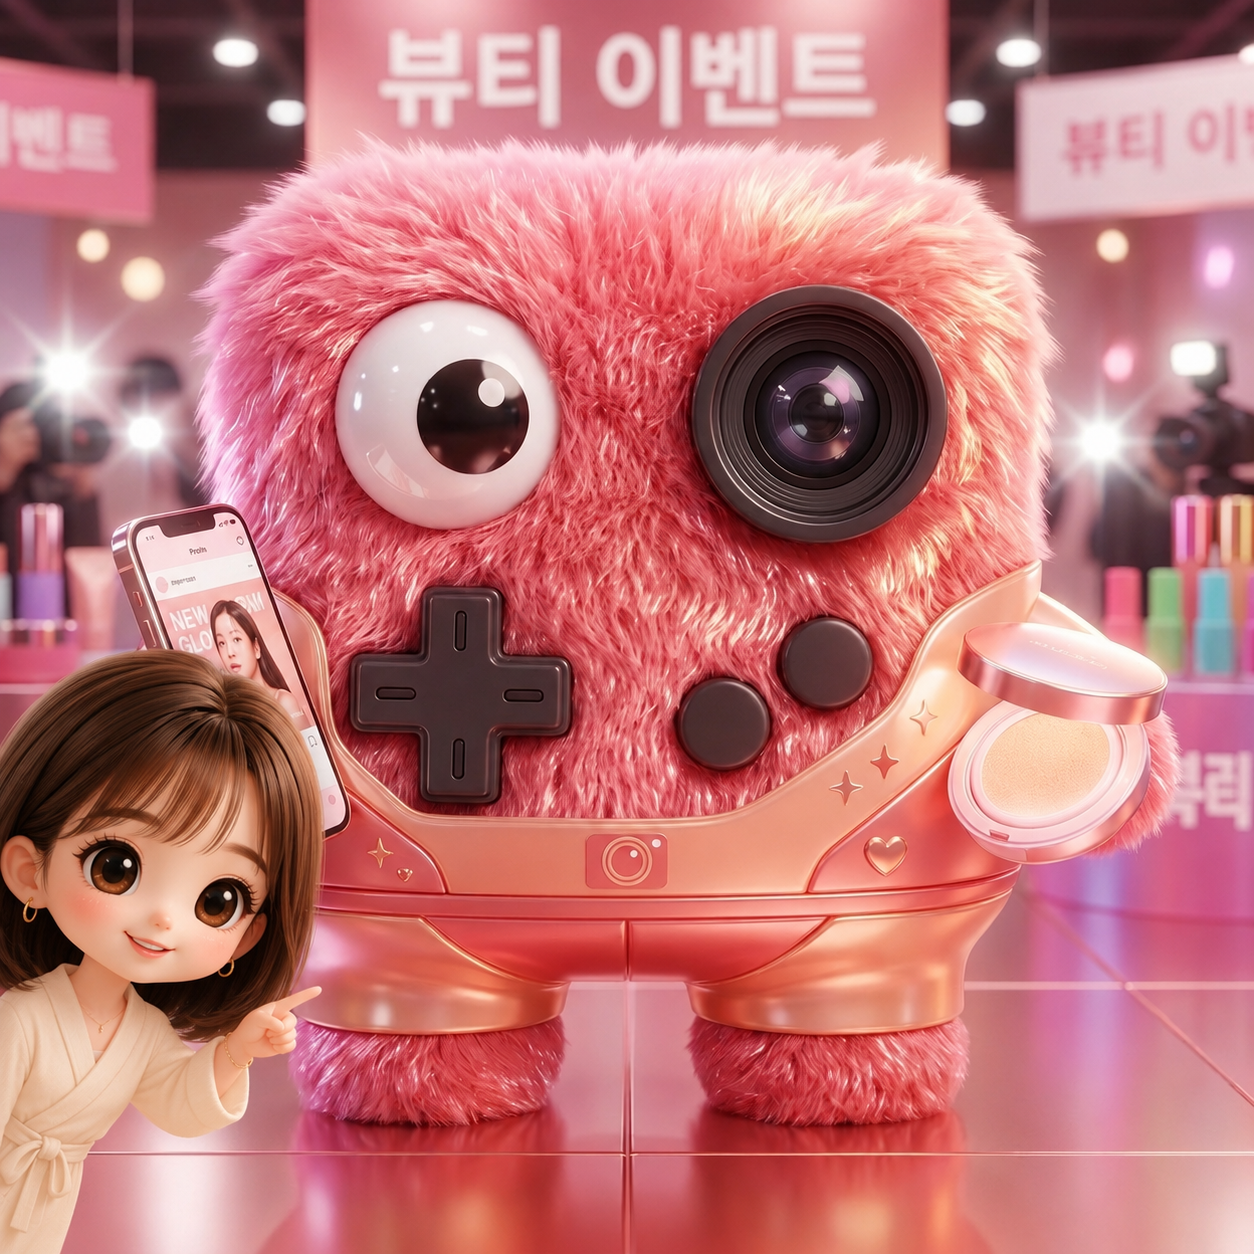
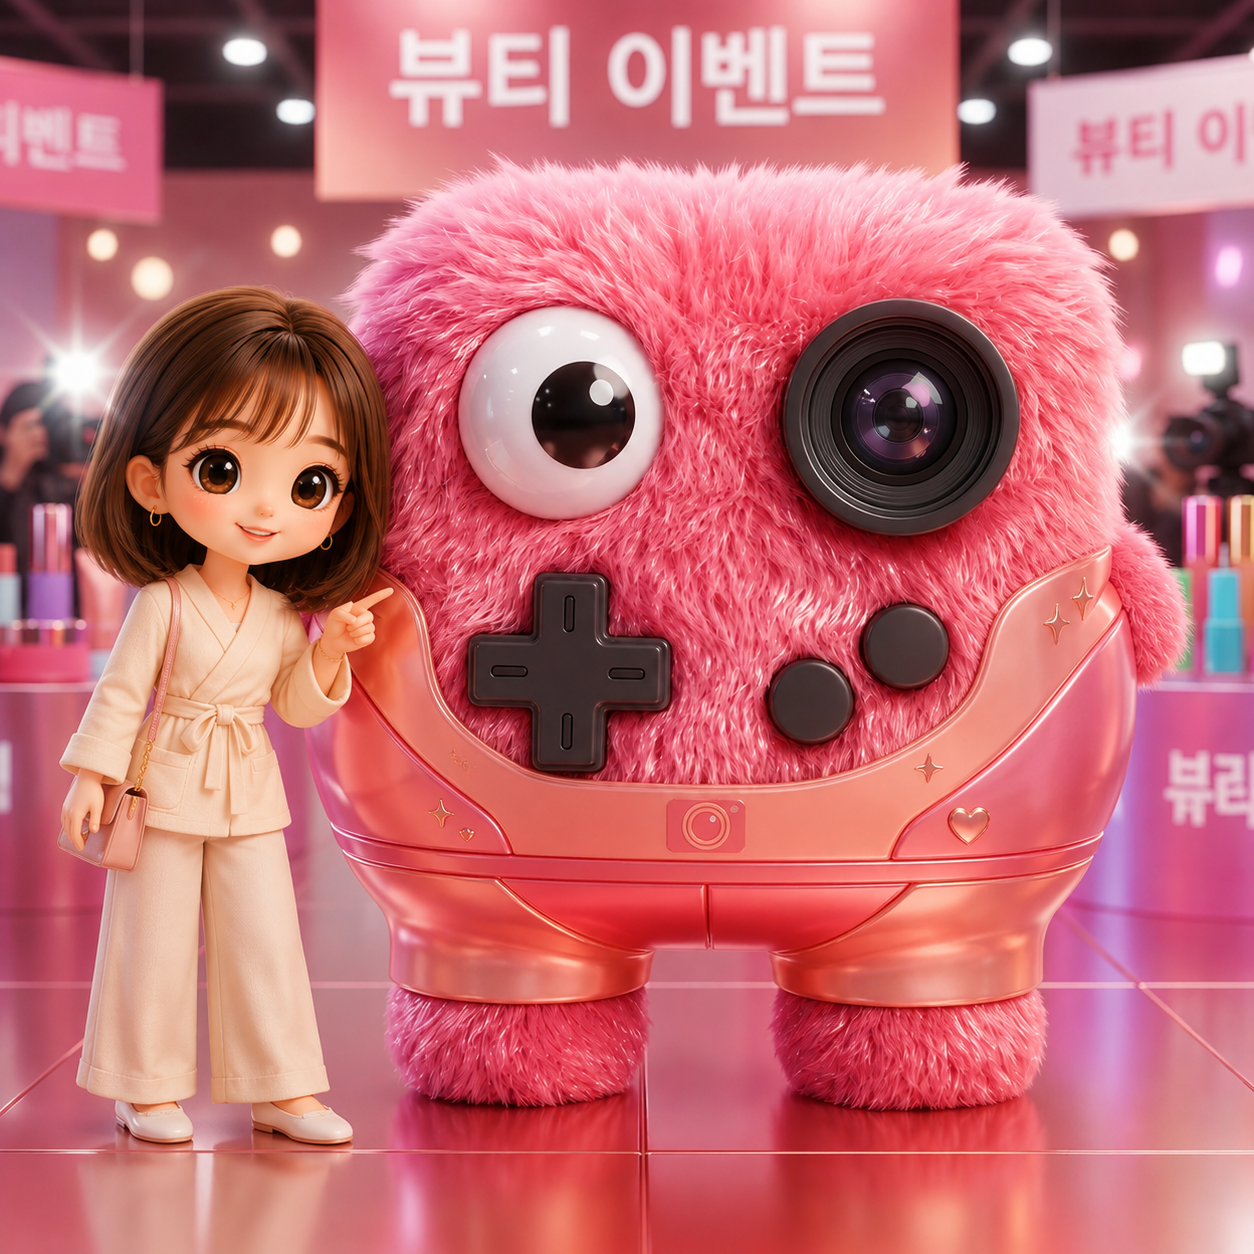
Update Miyake Mobby images

diff --git a/docs/miyake-yuko/index.html b/docs/miyake-yuko/index.html
@@ -504,7 +504,7 @@
       const count = Object.keys(state.answers).length;
       app.innerHTML = `
         <div class="panel fade-in" style="text-align:center; padding:60px 20px;">
-          <img class="hero-image" src="img/miyake-mobby-kbeauty.png" alt="三宅裕子さんの世界観に合わせた韓国美容空間のMobby">
+          <img class="hero-image" src="img/8mobby/韓国コスメ案内モビー.png" alt="韓国コスメ案内モビィ">
           <p class="kicker">Mobby rough preview</p>
           <h2 class="big">渡韓ビューティームード診断<br>with三宅裕子</h2>
           <p class="text-body" style="max-width:460px; margin:0 auto 30px;">直感で選ぶ20問から、美容の積み重ね方、透明感とグロウの印象、誰かに届けたくなる提案力を診断します。三宅裕子さんの渡韓美容、韓国コスメ、モデルらしい上品さを参考にしたラフ案です。</p>
